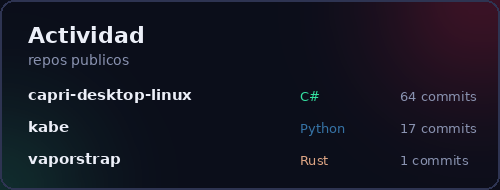
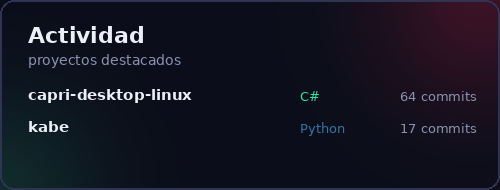
perfil: fuera Vaporstrap

diff --git a/README.md b/README.md
@@ -12,7 +12,6 @@
 <p align="center">
   <a href="https://github.com/JustItsSora/capri-desktop-linux"><img alt="Capri Desktop" src="https://img.shields.io/badge/Capri%20Desktop-C%23-E6224D?style=for-the-badge&logo=dotnet&logoColor=white"></a>
   <a href="https://github.com/JustItsSora/kabe"><img alt="Kabe" src="https://img.shields.io/badge/Kabe-Python-3776AB?style=for-the-badge&logo=python&logoColor=white"></a>
-  <a href="https://github.com/JustItsSora/vaporstrap"><img alt="Vaporstrap" src="https://img.shields.io/badge/Vaporstrap-Rust-000000?style=for-the-badge&logo=rust&logoColor=white"></a>
 </p>
 
 <p align="center">
@@ -76,15 +75,6 @@ Descubridor y aplicador de fondos de pantalla para Linux. Indexa repositorios
 de GitHub sin clonarlos, busca con tolerancia a errores de tipeo sobre SQLite
 FTS5 y aplica el fondo en el escritorio real, con vista previa por monitor.
 Sin navegador embebido ni Electron.
-
-### Vaporstrap — lanzador de Roblox para Linux
-<a href="https://github.com/JustItsSora/vaporstrap"><img alt="repo" src="https://img.shields.io/badge/repo-vaporstrap-000000?style=flat-square&logo=github&logoColor=white"></a>
-<img alt="Rust" src="https://img.shields.io/badge/Rust-000000?style=flat-square&logo=rust&logoColor=white">
-<img alt="Svelte" src="https://img.shields.io/badge/Svelte-FF3E00?style=flat-square&logo=svelte&logoColor=white">
-
-Bootstrapper de código abierto para jugar Roblox de forma nativa en Linux:
-editor de FastFlags, perfiles de rendimiento, mods, Discord RPC y multi-cuenta
-sobre un motor externo. Sin Wine, sin emulador y sin máquina virtual.
 
 ## Capri en acción
 
